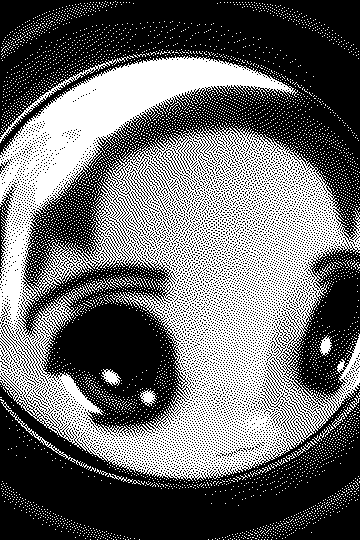
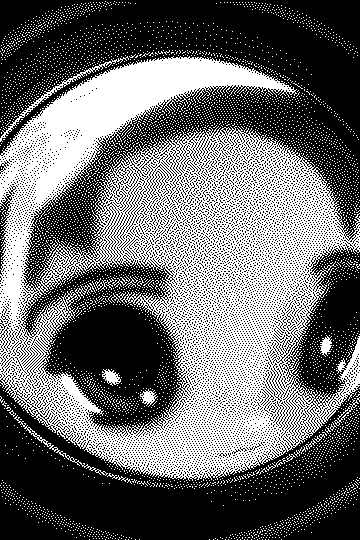
gnhf 6: Added deterministic serpentine scanning support to error diffusion and regenerated the doll-face previews with reduced directional dither artifacts.

diff --git a/src/dither/error-diffusion.ts b/src/dither/error-diffusion.ts
@@ -125,6 +125,8 @@ export interface ErrorDiffuseOptions {
   readonly image: PixelBuffer;
   readonly kernel?: ErrorDiffusionKernel;
   readonly levels?: number;
+  /** Alternate scan direction on every row and mirror horizontal kernel offsets to reduce directional artifacts. */
+  readonly serpentine?: boolean;
   readonly output?: Uint8Array;
 }
 
@@ -146,7 +148,7 @@ const validateKernel = (kernel: ErrorDiffusionKernel): void => {
 };
 
 export const errorDiffuse = (options: ErrorDiffuseOptions): PixelBuffer<Uint8Array> => {
-  const { image, kernel = floydSteinbergKernel, levels = 2 } = options;
+  const { image, kernel = floydSteinbergKernel, levels = 2, serpentine = false } = options;
   assertValidImage(image);
   validateKernel(kernel);
   // Validate once before entering the pixel loop.
@@ -162,7 +164,13 @@ export const errorDiffuse = (options: ErrorDiffuseOptions): PixelBuffer<Uint8Arr
   work.set(toGrayscale(image));
 
   for (let y = 0; y < image.height; y++) {
-    for (let x = 0; x < image.width; x++) {
+    const reverse = serpentine && y % 2 === 1;
+    const xStart = reverse ? image.width - 1 : 0;
+    const xEnd = reverse ? -1 : image.width;
+    const xStep = reverse ? -1 : 1;
+    const horizontalDirection = reverse ? -1 : 1;
+
+    for (let x = xStart; x !== xEnd; x += xStep) {
       const index = y * image.width + x;
       const oldValue = work[index] ?? 0;
       const newValue = quantizeLevel(oldValue, levels);
@@ -174,7 +182,7 @@ export const errorDiffuse = (options: ErrorDiffuseOptions): PixelBuffer<Uint8Arr
       }
 
       for (const offset of kernel.offsets) {
-        const xx = x + offset.dx;
+        const xx = x + offset.dx * horizontalDirection;
         const yy = y + offset.dy;
         if (xx < 0 || xx >= image.width || yy < 0 || yy >= image.height) {
           continue;

diff --git a/scripts/generate-examples.ts b/scripts/generate-examples.ts
@@ -119,11 +119,11 @@ const generateDitherAssets = async (preview: RawRgbImage): Promise<void> => {
   );
   await writeGrayscalePng(
     'doll-face-floyd-steinberg.png',
-    errorDiffuse({ image: preview, kernel: floydSteinbergKernel, levels: 2 }),
+    errorDiffuse({ image: preview, kernel: floydSteinbergKernel, levels: 2, serpentine: true }),
   );
   await writeGrayscalePng(
     'doll-face-atkinson.png',
-    errorDiffuse({ image: preview, kernel: atkinsonKernel, levels: 2 }),
+    errorDiffuse({ image: preview, kernel: atkinsonKernel, levels: 2, serpentine: true }),
   );
 };
 
@@ -156,7 +156,7 @@ const generateAsciiAssets = async (): Promise<void> => {
   const asciiSource = await loadAsciiSource();
   const asciiColors = await loadAsciiColorSource();
   const ascii = imageToAscii({
-    image: errorDiffuse({ image: asciiSource, kernel: floydSteinbergKernel, levels: 2 }),
+    image: errorDiffuse({ image: asciiSource, kernel: floydSteinbergKernel, levels: 2, serpentine: true }),
     ramp: ' @',
     cellWidth: asciiCellWidth,
     cellHeight: asciiCellHeight,

diff --git a/src/dither/error-diffusion.test.ts b/src/dither/error-diffusion.test.ts
@@ -96,6 +96,20 @@ describe('errorDiffuse', () => {
     expect([...output.data]).toEqual([255, 0]);
   });
 
+  it('supports serpentine scanning by mirroring diffusion on odd rows', () => {
+    const image = { width: 3, height: 2, channels: 1 as const, data: new Uint8Array([80, 120, 160, 80, 120, 160]) };
+
+    expect([...errorDiffuse({ image, kernel: floydSteinbergKernel, levels: 2 }).data]).toEqual([0, 255, 0, 0, 255, 255]);
+    expect([...errorDiffuse({ image, kernel: floydSteinbergKernel, levels: 2, serpentine: true }).data]).toEqual([
+      0,
+      255,
+      0,
+      0,
+      0,
+      255,
+    ]);
+  });
+
   it('supports caller-provided output buffers', () => {
     const outputBuffer = new Uint8Array(1);
     const output = errorDiffuse({

diff --git a/README.md b/README.md
@@ -171,12 +171,12 @@ import {
   stuckiKernel,
 } from 'broccoli-graphics';
 
-const fs = errorDiffuse({ image, kernel: floydSteinbergKernel, levels: 2 });
-const atkinson = errorDiffuse({ image, kernel: atkinsonKernel, levels: 2 });
+const fs = errorDiffuse({ image, kernel: floydSteinbergKernel, levels: 2, serpentine: true });
+const atkinson = errorDiffuse({ image, kernel: atkinsonKernel, levels: 2, serpentine: true });
 const smoother = errorDiffuse({ image, kernel: sierraKernel, levels: 2 });
 ```
 
-Built-in kernels cover Floyd-Steinberg, Atkinson, Jarvis-Judice-Ninke, Stucki, Sierra, two-row Sierra, and Sierra Lite. Kernels are plain data (`dx`, `dy`, `weight`) so additional diffusion algorithms can be added without changing the scanline engine.
+Built-in kernels cover Floyd-Steinberg, Atkinson, Jarvis-Judice-Ninke, Stucki, Sierra, two-row Sierra, and Sierra Lite. Kernels are plain data (`dx`, `dy`, `weight`) so additional diffusion algorithms can be added without changing the scanline engine. Set `serpentine: true` to alternate scan direction by row and mirror horizontal kernel offsets, reducing one-way streaking artifacts in photographic previews while keeping output deterministic.
 
 ### Palette utilities
 
@@ -237,7 +237,7 @@ See [`docs/architecture.md`](docs/architecture.md) for module boundaries and ext
 ## Performance notes
 
 - Ordered dithering is `O(width * height)` time and writes one byte per output pixel for grayscale output.
-- Error diffusion is `O(width * height * kernelSize)` and currently uses a full `Float32Array` working buffer for clarity and deterministic tests. A rolling row-buffer implementation can reduce memory later.
+- Error diffusion is `O(width * height * kernelSize)` and currently uses a full `Float32Array` working buffer for clarity and deterministic tests. Serpentine scanning keeps the same complexity while improving directional artifact behavior; a rolling row-buffer implementation can reduce memory later.
 - ASCII conversion averages source pixels per output cell. Larger `cellWidth`/`cellHeight` reduce output size but still read each source pixel once.
 - Supplying reusable `output` buffers to dither functions avoids repeated allocations in animation loops.
 
